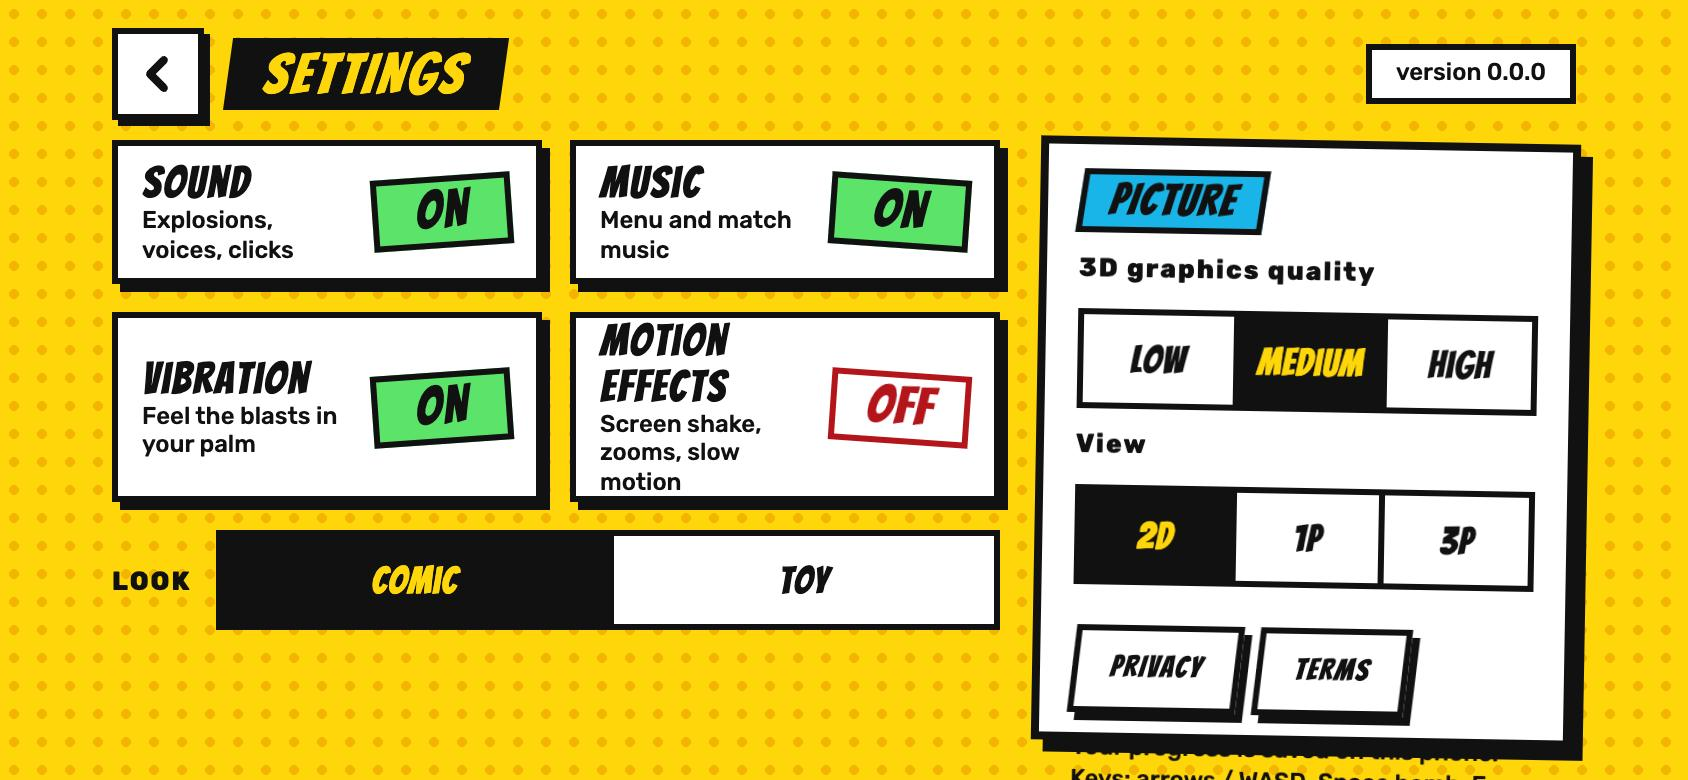
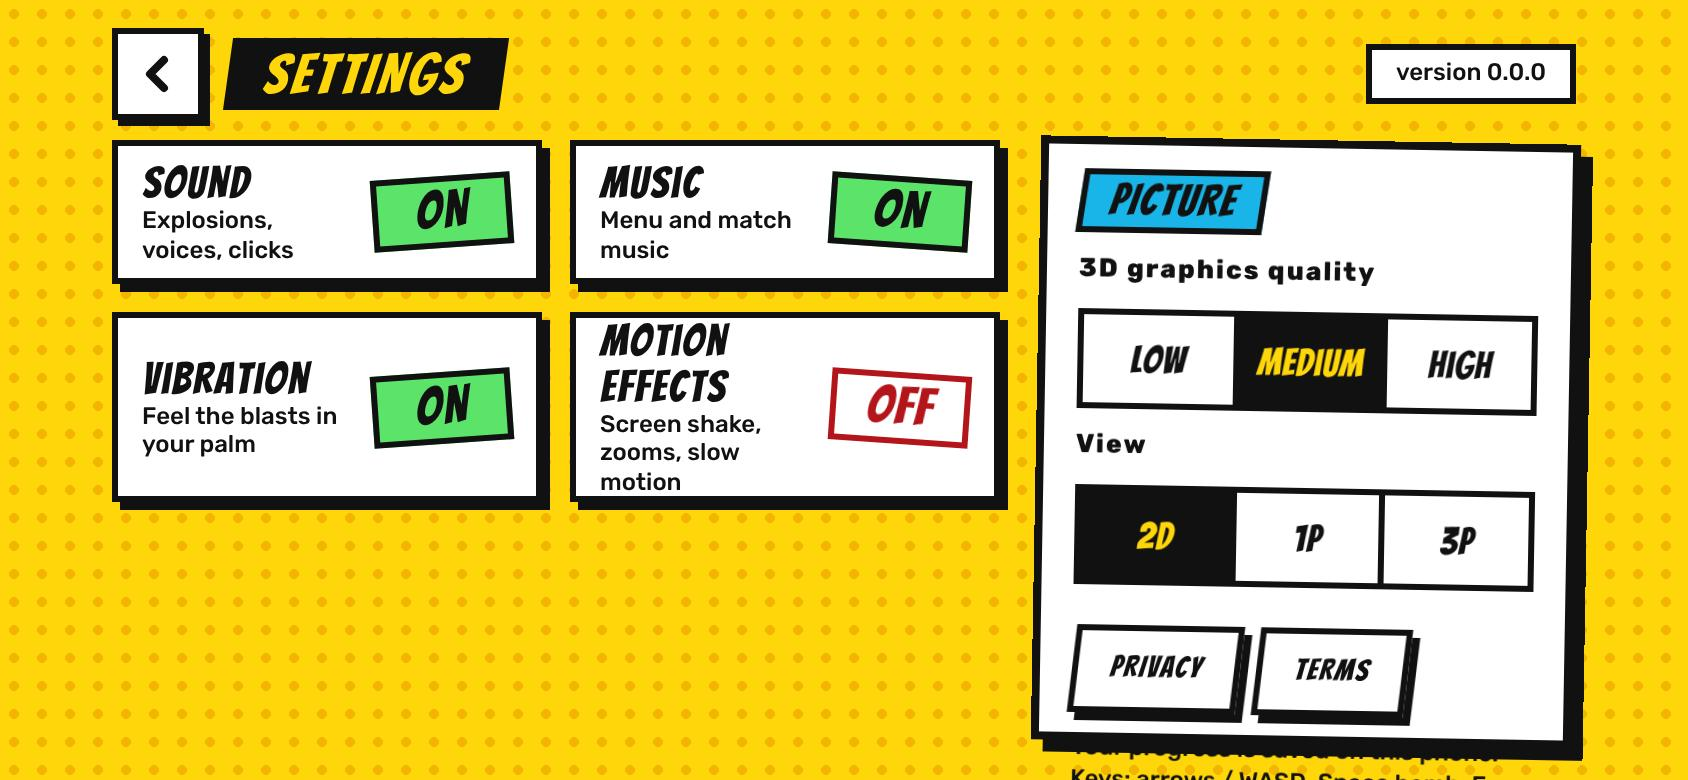
feat(client): show the skin switch only in development builds
The Look row in Settings and the saved skin apply only with __DEV_TOOLS__;
?skin= still works anywhere for the current session. Store builds are always
Comic unless the URL says otherwise.

diff --git a/apps/client/e2e/skin.spec.ts b/apps/client/e2e/skin.spec.ts
@@ -3,8 +3,9 @@ import type { Page } from '@playwright/test';
 import { mkdirSync } from 'node:fs';
 
 /**
- * Skin-ul „Toy”: se alege din Settings › Look, se aplică pe loc, se păstrează după reîncărcare,
- * iar `?skin=` îl schimbă doar pentru sesiunea curentă. „Comic” rămâne implicit.
+ * Skin-ul „Toy” (D-073, doar pentru comparație): rândul Settings › Look apare numai în build-urile
+ * de dezvoltare; testele rulează pe build-ul de producție, unde „Comic” e implicit și Toy se
+ * deschide cu `?skin=toy`, doar pentru sesiunea curentă.
  */
 
 test.use({ viewport: { width: 844, height: 390 }, deviceScaleFactor: 2 });
@@ -19,34 +20,36 @@ const skin = (page: Page) => page.evaluate(() => document.documentElement.datase
 const pageBg = (page: Page) =>
   page.evaluate(() => getComputedStyle(document.querySelector('.page')!).backgroundColor);
 
-test('Settings › Look: Comic implicit, Toy se aplică pe loc și se păstrează', async ({ page }) => {
+test('build de store: fără rândul „Look”, Comic implicit; ?skin=toy doar pentru sesiune', async ({
+  page,
+}) => {
   const errors: string[] = [];
   page.on('console', (m) => m.type() === 'error' && errors.push(m.text()));
   page.on('pageerror', (e) => errors.push(e.message));
 
+  // o setare salvată dintr-un build de dezvoltare nu contează aici
   await page.goto('/');
+  await page.evaluate(() => localStorage.setItem('fitil-settings', JSON.stringify({ skin: 'toy' })));
+  await page.reload();
   await page.waitForSelector('[data-test="settings"]');
   expect(await skin(page)).toBe('comic');
   expect(await pageBg(page)).toBe(PAPER);
-
   await page.click('[data-test="settings"]');
-  await page.click('[data-skin-pick="toy"]');
+  await expect(page.locator('[data-toggle=sound]')).toBeVisible();
+  await expect(page.locator('[data-skin-pick]')).toHaveCount(0);
+
+  // parametrul din URL schimbă aspectul, fără să atingă setările
+  await page.goto('/?skin=toy');
+  await page.waitForSelector('[data-test="settings"]');
   expect(await skin(page)).toBe('toy');
   expect(await pageBg(page)).toBe(INDIGO);
-  await expect(page.locator('[data-skin-pick="toy"]')).toHaveAttribute('aria-pressed', 'true');
   // fontul de titluri al skin-ului e cel împachetat local
   await page.evaluate(() => document.fonts.ready);
   expect(await page.evaluate(() => document.fonts.check("28px 'Lilita One'"))).toBe(true);
 
-  await page.reload();
-  await page.waitForSelector('[data-test="settings"]');
-  expect(await skin(page)).toBe('toy');
-
-  // parametrul din URL bate setarea, fără s-o schimbe
   await page.goto('/?skin=comic');
   await page.waitForSelector('[data-test="settings"]');
   expect(await skin(page)).toBe('comic');
-  expect(await page.evaluate(() => JSON.parse(localStorage.getItem('fitil-settings')!).skin)).toBe('toy');
 
   expect(errors).toEqual([]);
 });
@@ -76,10 +79,10 @@ test('Toy: meniurile și HUD-ul se deschid fără erori, cu ținte de minimum 44
   page.on('console', (m) => m.type() === 'error' && errors.push(m.text()));
   page.on('pageerror', (e) => errors.push(e.message));
 
-  await page.goto('/');
+  await page.goto('/?skin=toy');
   await page.evaluate(() => {
     localStorage.clear();
-    localStorage.setItem('fitil-settings', JSON.stringify({ motion: false, name: 'Gion', skin: 'toy' }));
+    localStorage.setItem('fitil-settings', JSON.stringify({ motion: false, name: 'Gion' }));
     localStorage.setItem('fitil-profile', JSON.stringify({ coins: 900, xp: { bubu: 400 } }));
   });
   await page.reload();

diff --git a/apps/client/src/app.ts b/apps/client/src/app.ts
@@ -2352,27 +2352,28 @@ export class App {
             this.scene.motion = settings.motion;
             this.applyMotion();
           }),
-          // aspectul interfeței (Comic / Toy): doar aspect, vezi ui/toy.css
-          h(
-            'div',
-            { class: 'lookrow' },
-            h('div', { class: 'label' }, 'Look'),
-            seg(
-              'Interface look',
-              [
-                ['comic', 'Comic'],
-                ['toy', 'Toy'],
-              ] as const,
-              currentSkin(),
-              (s) => {
-                settings.skin = s;
-                save();
-                applySkin();
-                this.showScreen(self);
-              },
-              'data-skin-pick',
+          // aspectul interfeței (Comic / Toy), doar în build-urile de dezvoltare: e pentru comparație (D-073)
+          DEV_TOOLS &&
+            h(
+              'div',
+              { class: 'lookrow' },
+              h('div', { class: 'label' }, 'Look'),
+              seg(
+                'Interface look',
+                [
+                  ['comic', 'Comic'],
+                  ['toy', 'Toy'],
+                ] as const,
+                currentSkin(),
+                (s) => {
+                  settings.skin = s;
+                  save();
+                  applySkin();
+                  this.showScreen(self);
+                },
+                'data-skin-pick',
+              ),
             ),
-          ),
         ),
         panel(
           'tr col side',

diff --git a/apps/client/src/settings.ts b/apps/client/src/settings.ts
@@ -90,8 +90,12 @@ function urlSkin(): Skin | null {
   }
 }
 
-/** Skin-ul afișat acum: cel din URL, altfel cel din setări. */
-export const currentSkin = (): Skin => urlSkin() ?? (SKINS.includes(settings.skin) ? settings.skin : 'comic');
+/**
+ * Skin-ul afișat acum: cel din URL, altfel cel din setări. Setarea salvată contează doar în
+ * build-urile de dezvoltare (acolo apare rândul „Look”); în rest, fără `?skin=`, e mereu „Comic” (D-073).
+ */
+export const currentSkin = (): Skin =>
+  urlSkin() ?? (__DEV_TOOLS__ && SKINS.includes(settings.skin) ? settings.skin : 'comic');
 
 /** Pune skin-ul pe `<html data-skin>`; CSS-ul face restul. */
 export function applySkin(): void {

diff --git a/docs/decisions.md b/docs/decisions.md
@@ -72,4 +72,4 @@
 - **D-070** (Faza 7) **Infinit online = stare filtrată per client, nu input-uri** (excepție de la D-030): cu 30–80 de oameni într-o lume nemărginită, fiecare client ar trebui să simuleze toată lumea. Serverul rulează sim-ul; fiecare client primește doar chunk-urile din zona lui (pătratul ±26 din jurul lui) ca diferențe față de lumea generată din seed (pe care o generează singur), schimbările de celule, jucătorii și bombele din zonă ca delta, evenimentele din zonă și, la 1 Hz, clasamentul și minimapa (`packages/net/src/infinite.ts`). Clientul nu simulează: randează o oglindă (`InfView`) cu aceeași scenă. Cost: fără predicție locală deocamdată. Avantaj: informația ascunsă (tufișuri, Q-009) ar fi posibilă aici.
 - **D-071** (Faza 7) Lumea infinită trece de la stocarea circulară 64×64 (D-024) la **chunk-uri 32×32** într-un șir de sloturi (`world.ts`): `idx` = slot × 1024 + poziția în chunk, slotul 0 e vidul (perete); chunk-urile se încarcă în jurul **fiecărui om** și se descarcă la > 34 pătrățele de toți (histerezis 8), cel mai mic slot liber se refolosește primul (determinist). Misiunile folosesc aceeași lume.
 - **D-072** (Faza 7) Regulile Infinitului: offline (prototip) 7 boți în jur, revenire după 2.2s; online fără boți, revenire după 3s, la moarte cad 50% din bonusurile culese; amândouă cu 3s de scut și lăzi care cresc la loc spre forma generată. Scor = eliminări ×100 + lăzi ×10 + distanța maximă de centru ×5 + secunde trăite. Oamenii noi apar la întâmplare pe o rază 6 + 3 × (oameni în lume) în jurul centrului, la ≥ 6 pătrățele de alții. Liderul poartă coroana (doar vizual, în oglinda clientului). O instanță = 80 de oameni; shard-urile sunt instanțele noi pe care Colyseus le creează când `joinOrCreate` nu găsește loc.
-- **D-073** **Două skin-uri de interfață, același DOM**: „Comic” (implicit) și „Toy” (direcția A din canvas), cerut de proprietar ca să le poată compara în joc. Toy e un strat CSS (`ui/toy.css`) activat de `<html data-skin="toy">`; se alege din Settings › Look (`settings.skin`) sau cu `?skin=` în URL (doar sesiunea curentă). Fără DOM separat și fără ramuri în TypeScript: un singur set de ecrane de întreținut. Fonturile lui (Lilita One, Nunito) sunt împachetate local ca la D-059. **Comutatorul e doar pentru comparație**: la final rămâne un singur skin (precizat de proprietar, 2026-10-07). După alegere, celălalt se scoate cu tot cu rândul „Look”, `settings.skin`, `?skin=`, fonturile și machetele lui.
+- **D-073** **Două skin-uri de interfață, același DOM**: „Comic” (implicit) și „Toy” (direcția A din canvas), cerut de proprietar ca să le poată compara în joc. Toy e un strat CSS (`ui/toy.css`) activat de `<html data-skin="toy">`; se alege din Settings › Look (`settings.skin`), rând vizibil **doar în build-urile de dezvoltare** (`__DEV_TOOLS__`), sau cu `?skin=` în URL (doar sesiunea curentă, oriunde); în build-urile de store, fără parametru, e mereu Comic. Fără DOM separat și fără ramuri în TypeScript: un singur set de ecrane de întreținut. Fonturile lui (Lilita One, Nunito) sunt împachetate local ca la D-059. **Comutatorul e doar pentru comparație**: la final rămâne un singur skin (precizat de proprietar, 2026-10-07). După alegere, celălalt se scoate cu tot cu rândul „Look”, `settings.skin`, `?skin=`, fonturile și machetele lui.

diff --git a/docs/prompt-log.md b/docs/prompt-log.md
@@ -3,6 +3,12 @@
 Istoricul cererilor făcute agenților LLM în proiect, cele mai noi primele. Regula și formatul sunt în `AGENTS.md`.
 Jurnalul începe pe 2026-09-28; fazele 0–2b au fost făcute înainte, iar istoricul lor e în `docs/progress.md` și în git.
 
+## 2026-10-07 — Claude Code (Opus 5.5) — Comutatorul de skin, doar în build-urile de dezvoltare
+
+- **Cerut:** ambele skin-uri rămân în paralel până la decizie; comutatorul să nu ajungă în build-urile de store.
+- **Făcut:** rândul „Look” din Settings apare doar cu `__DEV_TOOLS__`; setarea salvată contează doar acolo; `?skin=` merge oriunde, pentru sesiunea curentă. `e2e/skin.spec.ts` rescris pentru build-ul de producție (fără „Look”, Comic implicit, Toy prin URL). D-073 și `docs/design/ui.md` actualizate.
+- **Verificat:** `pnpm lint`, `pnpm typecheck`, `pnpm test`; Playwright `skin.spec.ts` + `ui.spec.ts`.
+
 ## 2026-10-07 — Claude Code (Opus 5.5) — Skin-ul „Toy”, comutabil din Settings
 
 - **Cerut:** încă o versiune a interfeței, pe alt branch, cu tema A din canvas; ales: skin în cod, comutator în joc, fonturile Lilita One și Nunito descărcate din `@fontsource`.

diff --git a/docs/design/ui.md b/docs/design/ui.md
@@ -156,7 +156,7 @@ Interfața are două aspecte care împart **același DOM și aceleași component
 
 - **Comic** e implicit și e descris în tot restul documentului (`styles.css`).
 - **Toy** e un strat peste el, în `apps/client/src/ui/toy.css`, activ doar când `<html data-skin="toy">`. Machetele lui sunt în `reference/ui-toy/`.
-- Se alege din **Settings › Look** (`settings.skin`, salvat local) sau, doar pentru sesiunea curentă, cu `?skin=toy` / `?skin=comic` în URL. Schimbarea se aplică pe loc.
+- În build-urile de dezvoltare se alege din **Settings › Look** (`settings.skin`, salvat local; se aplică pe loc). Oriunde, `?skin=toy` / `?skin=comic` în URL îl schimbă doar pentru sesiunea curentă. În build-urile de store nu există comutator, iar fără parametru interfața e mereu Comic.
 - Regula „interfața e fixă, tema schimbă doar arena” (D-052) rămâne: skin-ul și tema arenei sunt independente.
 
 Ce schimbă Toy față de Comic:
